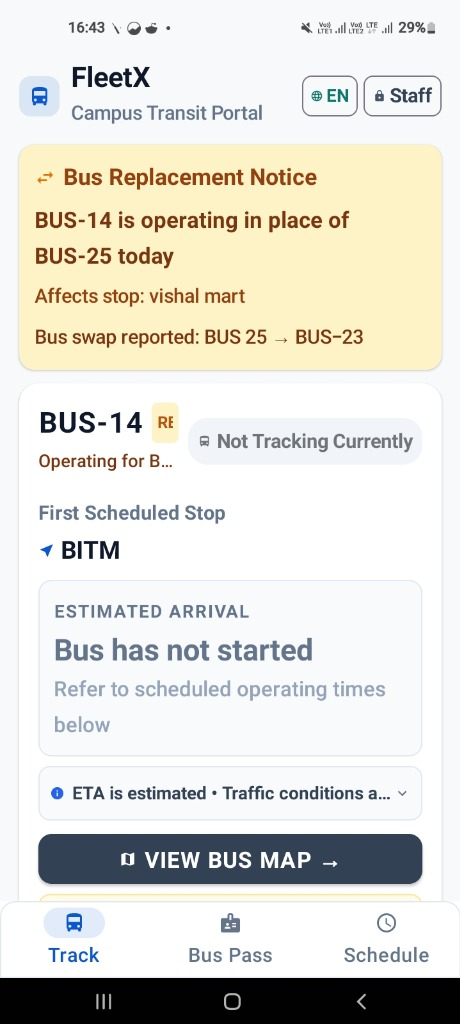
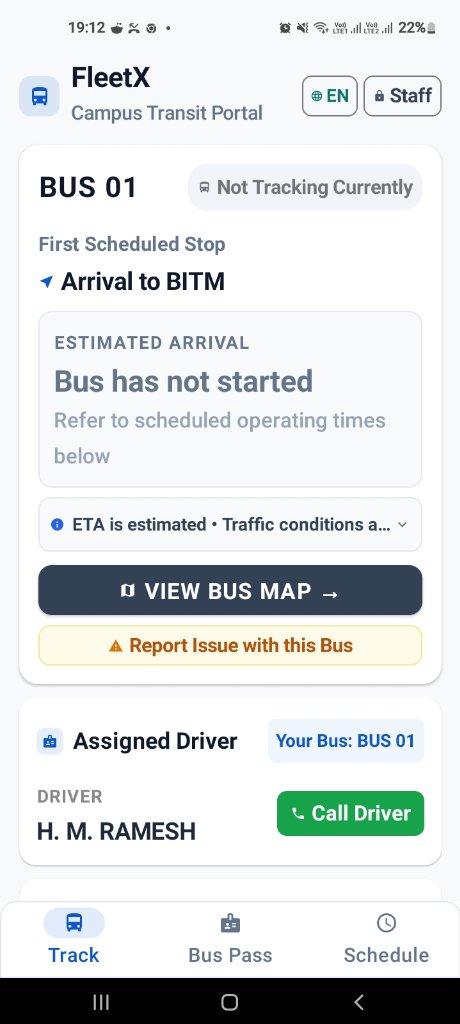
feat(website): update app preview with real screenshots and My Bus Pass wallet

diff --git a/website/src/components/AppPreview.tsx b/website/src/components/AppPreview.tsx
@@ -1,8 +1,8 @@
 import React, { useState } from 'react';
-import liveMapImg from '../assets/screenshots/screen-live-map.png';
+import mapScreenImg from '../assets/screenshots/screen-map-view.jpg';
 import studentHomeImg from '../assets/screenshots/screen-student-home.jpg';
-import diagnosticsImg from '../assets/screenshots/screen-diagnostics.png';
-import routeDetailImg from '../assets/screenshots/screen-route-detail.jpg';
+import scheduleStopsImg from '../assets/screenshots/screen-schedule-stops.jpg';
+import busPassImg from '../assets/screenshots/screen-bus-pass.jpg';
 
 interface ScreenItem {
   id: string;
@@ -22,34 +22,34 @@ export const AppPreview: React.FC = () => {
       description:
         'Students watch the bus moving smoothly in real time across calibrated college route paths with live orientation and current road location.',
       badge: 'Live Map View',
-      image: liveMapImg
+      image: mapScreenImg
     },
     {
       id: 'screen-student',
-      title: 'Student Dashboard & ETA',
+      title: 'Student Dashboard & Driver Info',
       subtitle: 'Selected Bus & Dynamic Stop Countdowns',
       description:
-        'Instant status badges (🟢 Active, 🟠 Waiting for GPS, ⚪ Inactive), next stop countdowns, and upcoming stops list tailored to your daily route.',
-      badge: 'Student View',
+        'Instant status badges, estimated arrival times, assigned bus details, and one-tap direct calling for your verified college driver.',
+      badge: 'Track Tab',
       image: studentHomeImg
     },
     {
-      id: 'screen-route',
-      title: 'Route Path & Stop Directory',
-      subtitle: 'Turn-by-Turn Waypoints & Stop Sequences',
+      id: 'screen-schedule',
+      title: 'Operating Windows & Stops',
+      subtitle: 'Morning & Evening Transit Hours',
       description:
-        'Comprehensive breakdown of every pickup and dropoff point between origin stops and the BITM college campus.',
-      badge: 'Route Details',
-      image: routeDetailImg
+        'Complete view of daily operating shifts (07:00–09:00 & 16:20–17:45) and sequence of all 8 route stops from M.G. Point to BITM.',
+      badge: 'Schedule Tab',
+      image: scheduleStopsImg
     },
     {
-      id: 'screen-diag',
-      title: 'GPS Diagnostics & Sensor Engine',
-      subtitle: 'Battery, Hardware & Satellite Health',
+      id: 'screen-pass',
+      title: 'My Bus Pass Wallet',
+      subtitle: 'Digital Card Scanning & Storage',
       description:
-        'High-precision hardware telemetry, RTDB synchronization status, and shift watchdog monitoring ensuring zero dropped coordinates.',
-      badge: 'Driver & Tech Engine',
-      image: diagnosticsImg
+        'Scan both sides of your official college pass to show the driver whenever boarding without carrying physical cards.',
+      badge: 'Bus Pass Tab',
+      image: busPassImg
     }
   ];
 

diff --git a/website/src/components/Hero.tsx b/website/src/components/Hero.tsx
@@ -1,7 +1,7 @@
 import React from 'react';
 import { Download, Compass, Smartphone, ShieldCheck, CheckCircle2 } from 'lucide-react';
 import { ReleaseInfo } from '../types/github';
-import heroMapScreenshot from '../assets/screenshots/screen-live-map.png';
+import heroMapScreenshot from '../assets/screenshots/screen-map-view.jpg';
 
 interface HeroProps {
   latestRelease: ReleaseInfo | null;
@@ -101,15 +101,6 @@ export const Hero: React.FC<HeroProps> = ({ latestRelease, onDownloadClick }) =>
 
                 {/* Screen Content Wrapper */}
                 <div className="relative rounded-[34px] overflow-hidden bg-white border border-slate-900/10">
-                  {/* Status Bar Overlay */}
-                  <div className="h-7 w-full bg-slate-950/20 backdrop-blur-sm absolute top-0 left-0 right-0 z-10 flex items-center justify-between px-6 text-[10px] text-slate-800 font-semibold select-none">
-                    <span>9:41</span>
-                    <div className="flex items-center gap-1 text-[9px]">
-                      <span>5G</span>
-                      <span>100%</span>
-                    </div>
-                  </div>
-
                   {/* Real Map Screen Image */}
                   <img
                     src={heroMapScreenshot}
